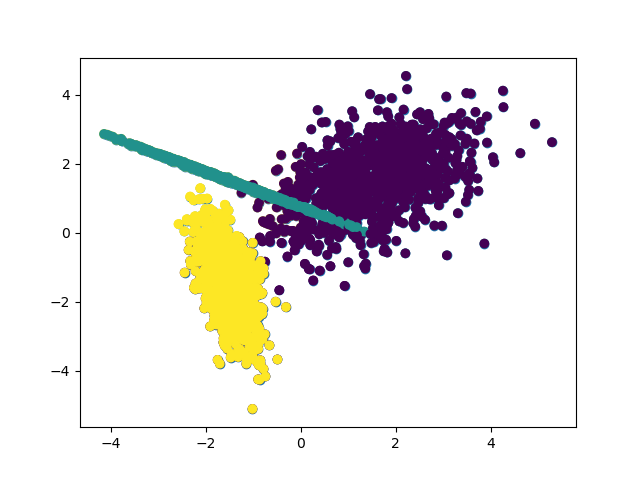
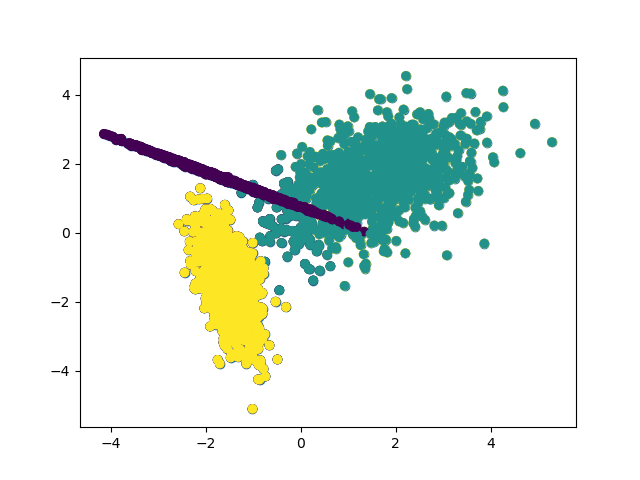
scores for K-means clusters

diff --git a/run_gmm.py b/run_gmm.py
@@ -3,6 +3,7 @@ import matplotlib.pyplot as plt
 
 from sklearn.cluster import KMeans
 from sklearn.mixture import GaussianMixture
+from sklearn import metrics
 
 
 dataset = pd.read_csv("dataset.csv", header = None)
@@ -12,10 +13,31 @@ print(dataset.head())
 plt.scatter(dataset[0], dataset[1])
 plt.savefig("scatterplot.png")
 
-kmeans_predictions = KMeans(n_clusters=3).fit_predict(dataset)
-plt.scatter(dataset[0],dataset[1], c=kmeans_predictions)
+# kmeans_predictions = KMeans(n_clusters=3).fit_predict(dataset)
+# plt.scatter(dataset[0],dataset[1], c=kmeans_predictions)
+# plt.savefig("scatterplot_kmeans_3.png")
+
+kmeans_predictions_4 = KMeans(n_clusters=4).fit_predict(dataset)
+plt.scatter(dataset[0], dataset[1], c=kmeans_predictions_4)
+plt.savefig("scatterplot_kmeans_4.png")
+print("K-mean 4 clusters")
+print(metrics.silhouette_score(dataset, kmeans_predictions_4))
+
+kmeans_predictions_3 = KMeans(n_clusters=3).fit_predict(dataset)
+plt.scatter(dataset[0], dataset[1], c=kmeans_predictions_3)
 plt.savefig("scatterplot_kmeans_3.png")
+print("K-mean 3 clusters")
+print(metrics.silhouette_score(dataset, kmeans_predictions_3))
+
+kmeans_predictions_2 = KMeans(n_clusters=2).fit_predict(dataset)
+plt.scatter(dataset[0], dataset[1], c=kmeans_predictions_2)
+plt.savefig("scatterplot_kmeans_2.png")
+print("K-mean 2 clusters")
+print(metrics.silhouette_score(dataset, kmeans_predictions_2))
+
+
 
 gaussian_predictions = GaussianMixture(n_components=3).fit(dataset).predict(dataset)
 plt.scatter(dataset[0], dataset[1], c=gaussian_predictions)
 plt.savefig("scatterplot_gaussian_3.png")
+
